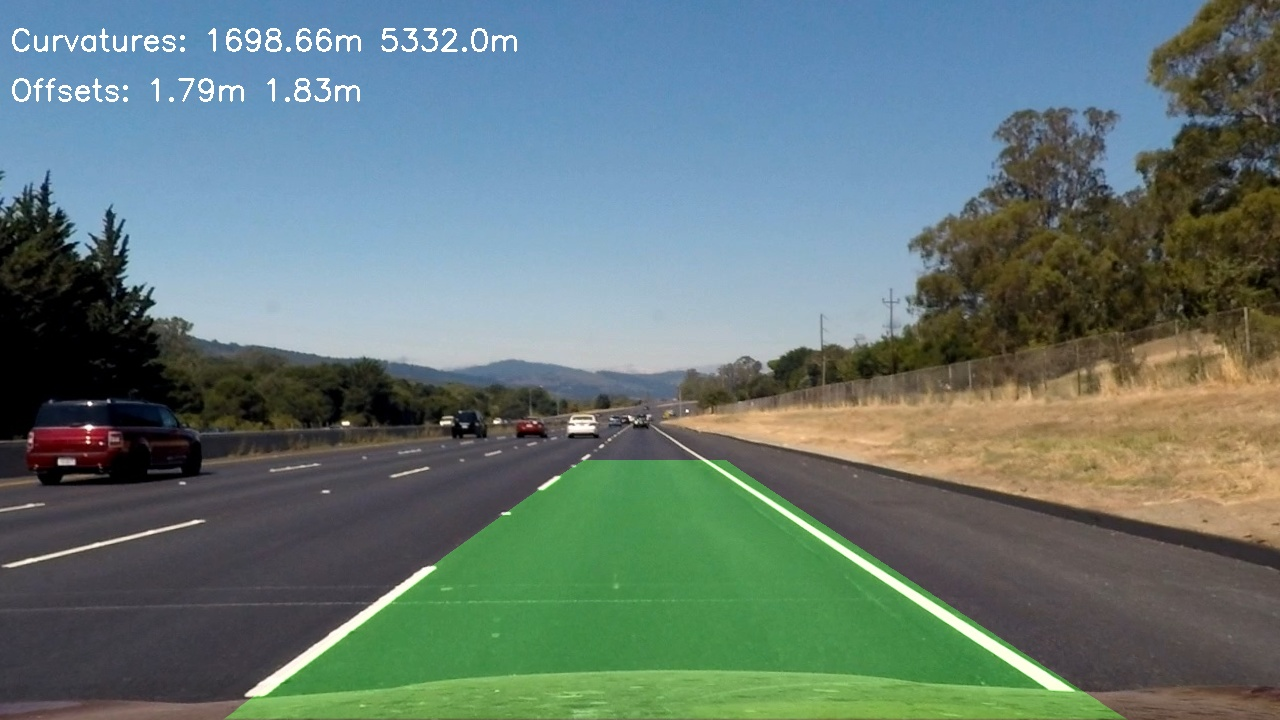
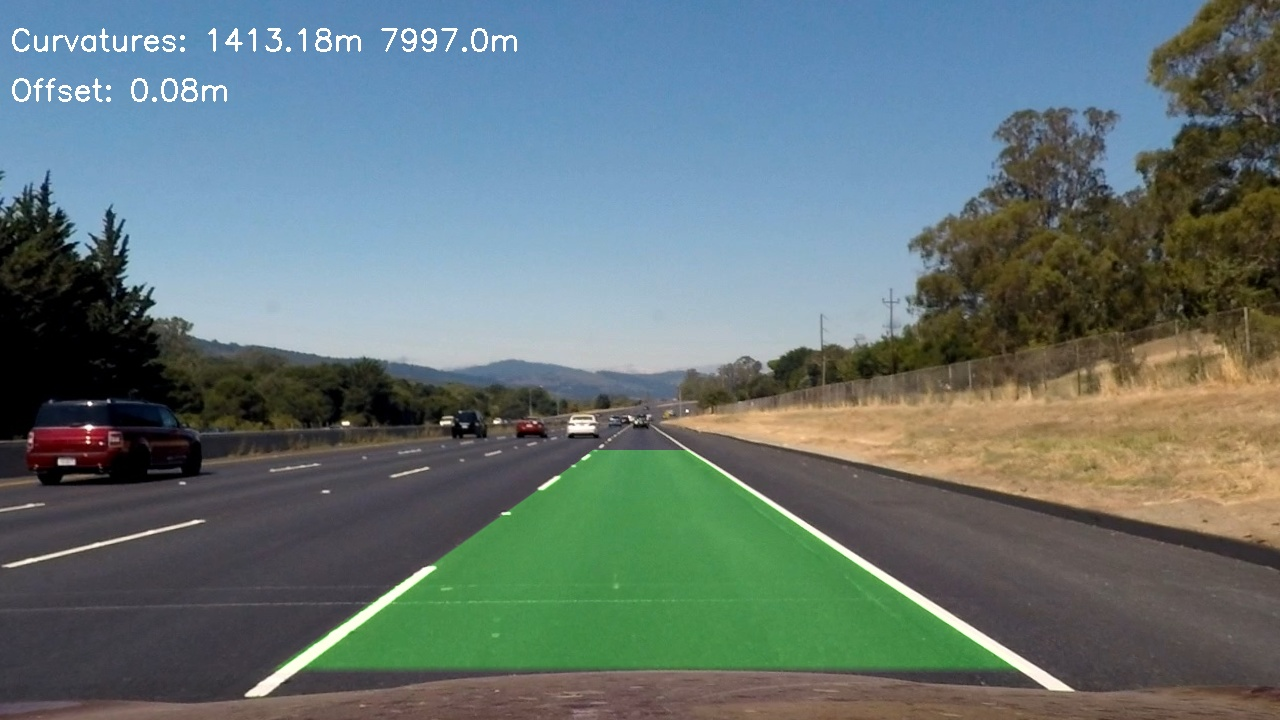
After review fixes

diff --git a/Finding Lane Lines/advanced/detector/detector.py b/Finding Lane Lines/advanced/detector/detector.py
@@ -15,13 +15,15 @@ class Detector(object):
         self.frame_w = camera.frame_w
         self.frame_h = camera.frame_h
 
-        self.lane = Lane(buffer_size=10, debug=debug)
+        self.roi_w = self.frame_w
+        self.roi_h = 223
+        self.lane = Lane(self.roi_w, self.roi_h, buffer_size=10, debug=debug)
 
         self.debug = debug
         self.debug_output_dir = debug_output_dir
 
     def cleanup(self):
-        pass
+        self.lane = Lane(self.frame_w, self.frame_h, buffer_size=10, debug=self.debug)
 
     def process_video(self, src, dst, subclip=None):
         if subclip is None:
@@ -47,9 +49,16 @@ class Detector(object):
         if self.debug:
             self._show_img(undistorted_frame, 'undistorted_frame', cmap=None)
 
+        # get roi
+        hood_pos_y = self.frame_h - 47  # 47 is a hood height
+        roi_start_y = hood_pos_y - self.roi_h
+        roi = undistorted_frame[roi_start_y:hood_pos_y, :, :]
+        if self.debug:
+            self._show_img(roi, 'roi', cmap=None)
+
         # get lane lines pixels
         start_time = time.time()
-        lane_pixels = self._get_lane_lines_pixels(undistorted_frame)
+        lane_pixels = self._get_lane_lines_pixels(roi)
         times['lane_pixels'] = time.time() - start_time
         if self.debug:
             self._show_img(lane_pixels, 'lane_pixels', 'gray')
@@ -59,7 +68,7 @@ class Detector(object):
         bird_eye_view = self.camera.perspective_transform(lane_pixels)
         times['bird_eye_view'] = time.time() - start_time
         if self.debug:
-            self._show_img(bird_eye_view, 'bird_eye_view', 'gray')
+            self._show_img(bird_eye_view, 'bird_eye_view', cmap='gray')
 
         # fit lines
         start_time = time.time()
@@ -73,7 +82,7 @@ class Detector(object):
 
         # calculate result lane lines properties
         start_time = time.time()
-        self.lane.update_lines(left_line, right_line, (self.frame_w//2, self.frame_h - 1))
+        self.lane.update_lines(left_line, right_line, (self.roi_w // 2, self.roi_h - 1))
         times['update_lines'] = time.time() - start_time
 
         # draw lane boundaries and lane info
@@ -91,9 +100,13 @@ class Detector(object):
         return frame_with_lane
 
     def _get_lane_lines_pixels(self, img):
+        # HSV = cv2.cvtColor(img, cv2.COLOR_BGR2HSV)
         HLS = cv2.cvtColor(img, cv2.COLOR_BGR2HLS)
         L = HLS[:, :, 1]
         S = HLS[:, :, 2]
+
+        # perform contrast/lightning correction
+        # @link https://docs.opencv.org/master/d5/daf/tutorial_py_histogram_equalization.html
 
         # gradient threshold
         kernel = 9
@@ -158,7 +171,7 @@ class Detector(object):
         binary_output[(direction >= threshold[0]) & (direction <= threshold[1])] = 1
         return binary_output
 
-    def _fit_lines(self, img, left_start_x, right_start_x, windows=6, margin=100, minpix=50):
+    def _fit_lines(self, img, left_start_x, right_start_x, windows=6, margin=20, minpix=10):
         if self.debug:
             out_img = np.dstack((img, img, img))
 
@@ -172,10 +185,11 @@ class Detector(object):
         left_lane_inds = []
         right_lane_inds = []
 
-        window_height = self.frame_h // windows
+        h, w = img.shape
+        window_height = h // windows
         for window in range(windows):
-            win_y_low = self.frame_h - (window + 1) * window_height
-            win_y_high = self.frame_h - window * window_height
+            win_y_low = h - (window + 1) * window_height
+            win_y_high = h - window * window_height
             win_x_left_low = left_x_current - margin
             win_x_left_high = left_x_current + margin
             win_x_right_low = right_x_current - margin
@@ -221,22 +235,18 @@ class Detector(object):
         right_y = nonzero_y[right_lane_inds]
         right_fit = np.polyfit(right_y, right_x, 2)
 
-        y_fit = np.linspace(0, self.frame_h - 1, self.frame_h)
+        y_fit = np.linspace(0, h - 1, h, dtype=np.float32)
         left_line = LaneLine()
         left_line.x_start = left_start_x
         left_line.fit = left_fit
         left_line.x_fit = left_fit[0] * y_fit ** 2 + left_fit[1] * y_fit + left_fit[2]
         left_line.y_fit = y_fit
-        left_line.detected_x = left_x
-        left_line.detected_y = left_y
 
         right_line = LaneLine()
         right_line.x_start = right_start_x
         right_line.fit = right_fit
         right_line.x_fit = right_fit[0] * y_fit ** 2 + right_fit[1] * y_fit + right_fit[2]
         right_line.y_fit = y_fit
-        right_line.detected_x = right_x
-        right_line.detected_y = right_y
 
         if self.debug:
             out_img[left_y, left_x] = [255, 0, 0]
@@ -250,16 +260,17 @@ class Detector(object):
         return left_line, right_line
 
     def _get_lines_start_positions(self, img):
-        histogram = np.sum(img[self.frame_h // 2:, :], axis=0)
+        histogram = np.sum(img, axis=0)
         if self.debug:
             plt.plot(histogram)
             plt.title('Lane pixels hist')
             plt.show()
 
-        midpoint = self.frame_w // 2
-        left_x = np.argmax(histogram[:midpoint])
+        margin = 100
+        midpoint = img.shape[1] // 2
+        left_x = (midpoint - margin) + np.argmax(histogram[(midpoint - margin):midpoint])
         left_w = histogram[left_x]
-        right_x = midpoint + np.argmax(histogram[midpoint:])
+        right_x = midpoint + np.argmax(histogram[midpoint:(midpoint + margin)])
         right_w = histogram[right_x]
 
         return left_x, left_w, right_x, right_w
@@ -270,16 +281,17 @@ class Detector(object):
         right_line = self.lane.get_best_right_line()
 
         # draw lane boundaries
-        warp_zero = np.zeros_like(warped).astype(np.uint8)
-        color_warp = np.dstack((warp_zero, warp_zero, warp_zero))
+        color_warp = np.zeros_like(warped).astype(np.uint8)
+        color_warp = np.dstack([color_warp, color_warp, color_warp])
 
         pts_left = np.array([np.transpose(np.vstack([left_line.x_fit, left_line.y_fit]))])
         pts_right = np.array([np.flipud(np.transpose(np.vstack([right_line.x_fit, right_line.y_fit])))])
         pts = np.hstack((pts_left, pts_right))
         cv2.fillPoly(color_warp, np.int_([pts]), (0, 255, 0))
-
-        warped_back = self.camera.perspective_transform_back(color_warp)
-        img_with_lane = cv2.addWeighted(dst_img, 1, warped_back, 0.3, 0)
+        roi_warped_back = self.camera.perspective_transform_back(color_warp)
+        full_size_img = np.zeros_like(dst_img).astype(np.uint8)
+        full_size_img[450:(450 + self.roi_h), :, :] = roi_warped_back
+        img_with_lane = cv2.addWeighted(dst_img, 1, full_size_img, 0.3, 0)
 
         # display lines info
         cv2.putText(
@@ -291,9 +303,15 @@ class Detector(object):
             (255, 255, 255),
             2
         )
+
+        y = self.roi_h - 1
+        left_x = left_line.x_fit[y]
+        right_x = right_line.x_fit[y]
+        lane_center = left_x + (right_x - left_x) / 2
+        offset = (self.roi_w / 2 - lane_center) * self.lane.xm_per_px
         cv2.putText(
             img_with_lane,
-            'Offsets: {}m {}m'.format(np.round(left_line.offset, 2), np.round(right_line.offset, 2)),
+            'Offset: {}m'.format(np.round(offset, 2)),
             (10, 100),
             cv2.FONT_HERSHEY_SIMPLEX,
             1,

diff --git a/Finding Lane Lines/advanced/detector/lane.py b/Finding Lane Lines/advanced/detector/lane.py
@@ -16,23 +16,21 @@ class Lane(object):
     curvature_min = 300
     curvature_max = 10000
 
-    xm_per_px = 1
-    ym_per_px = 1
-
-    def __init__(self, buffer_size=30, debug=False):
+    def __init__(self, roi_w, roi_h, buffer_size=30, debug=False):
+        self.roi_w = roi_w
+        self.roi_h = roi_h
         self.buffer_size = buffer_size
         self.debug = debug
 
+        self.xm_per_px = 3.675 / 85  # Lane width (12 ft in m) is ~85 px on image
+        self.ym_per_px = 3.048 / 24  # Dashed line length (10 ft in m) is ~24 px on image
+
     def update_lines(self, left_line, right_line, ego_pos):
-        x_start_diff = right_line.x_start - left_line.x_start
-        self.xm_per_px = 3.7 / x_start_diff
-        self.ym_per_px = 30 / np.max(left_line.detected_y)
+        # x_start_diff = right_line.x_start - left_line.x_start
 
         # calculate curvatures and offsets
         left_line.curvature = self._get_line_curvature(left_line)
         right_line.curvature = self._get_line_curvature(right_line)
-        left_line.offset = self._get_line_offset(left_line, ego_pos)
-        right_line.offset = self._get_line_offset(right_line, ego_pos)
 
         # check lines
         left_line.is_detected = self.is_line_detected(left_line, self.left_lines)
@@ -68,10 +66,10 @@ class Lane(object):
             return False
 
         # check curvature
-        if line.curvature < self.curvature_min or line.curvature > self.curvature_max:
-            if self.debug:
-                print('Left line invalid curvature:', line.curvature)
-            return False
+        # if line.curvature < self.curvature_min or line.curvature > self.curvature_max:
+        #     if self.debug:
+        #         print('Left line invalid curvature:', line.curvature)
+        #     return False
 
         # compare with previous detection
         current_time = time.time()
@@ -106,7 +104,6 @@ class Lane(object):
         x_fit = None
         y_fit = None
         curvatures = 0
-        offset = 0
         for k in lines:
             line = lines[k]
             if fit is not None:
@@ -121,7 +118,6 @@ class Lane(object):
 
             y_fit = line.y_fit
             curvatures += line.curvature
-            offset += line.offset
 
         count = len(lines.keys())
         average = LaneLine()
@@ -129,16 +125,21 @@ class Lane(object):
         average.x_fit = np.divide(x_fit, count)
         average.y_fit = y_fit
         average.curvature = curvatures / count
-        average.offset = offset / count
         return average
 
     def _get_line_curvature(self, line):
-        y = np.multiply(line.detected_y, self.ym_per_px)
-        x = np.multiply(line.detected_x, self.xm_per_px)
-        fit = np.polyfit(y, x, 2)
-        y_eval = np.max(line.detected_y) * self.ym_per_px
-        return np.power((1 + (2 * fit[0] * y_eval + fit[1]) ** 2), 1.5) / np.abs(2 * fit[0])
+        """
+            Gets line curvature in meters by M. Bourne formula
+            Scaled parabola: x = mx/(my ** 2) * a * (y**2) + (mx/my) * b * y + c
 
-    def _get_line_offset(self, line, ego_pos):
-        x, y = ego_pos
-        return np.abs(x - line.x_fit[y]) * self.xm_per_px
+        :param line:Line
+        :return:float
+        """
+
+        a, b, c = line.fit
+        mx = self.xm_per_px
+        my = self.ym_per_px
+        y = np.max(line.y_fit)
+        k = 2 * a * mx / my ** 2
+
+        return np.sqrt((1 + (k * y + (mx / my) * b) ** 2) ** 3) / np.abs(k)

diff --git a/Finding Lane Lines/advanced/detector/camera.py b/Finding Lane Lines/advanced/detector/camera.py
@@ -1,6 +1,7 @@
-import numpy as np
-import cv2
 import glob
+
+import cv2
+import numpy as np
 
 
 class Camera(object):
@@ -12,6 +13,7 @@ class Camera(object):
     roi = None
     perspective_matrix = None
     perspective_matrix_inv = None
+    perspective_dst_points = None
 
     def __init__(self, frame_w, frame_h):
         self.frame_w = frame_w
@@ -100,23 +102,42 @@ class Camera(object):
         return cv2.remap(img, map_x, map_y, cv2.INTER_LINEAR)
 
     def calculate_perspective_matrices(self, w, h):
-        src_points = np.float32([
-            [w / 2 - 63, h / 2 + 100],
-            [w / 6 - 10, h],
-            [w * 5 / 6 + 60, h],
-            [w / 2 + 68, h / 2 + 100]
-        ])
-        dst_points = np.float32([
-            [w / 4, 0],
-            [w / 4, h],
-            [w * 0.75, h],
-            [w * 0.75, 0]
-        ])
+        # src_points = np.float32([
+        #     [w / 2 - 55, h / 2 + 100],
+        #     [w / 6 - 10, h],
+        #     [w * 5 / 6 + 60, h],
+        #     [w / 2 + 55, h / 2 + 100]
+        # ])
+        # dst_points = np.float32([
+        #     [w / 4, 0],
+        #     [w / 4, h],
+        #     [w * 0.75, h],
+        #     [w * 0.75, 0]
+        # ])
+        # src_points = np.float32([
+        #     [581, 477],
+        #     [699, 477],
+        #     [896, 675],
+        #     [384, 675]
+        # ])
+        # dst_points = np.float32([
+        #     [384, 0],
+        #     [896, 0],
+        #     [896, 720],
+        #     [384, 720]
+        # ])
+
+        src_points = np.float32([[0, 223], [1207, 223], [0, 0], [1280, 0]])
+        dst_points = np.float32([[561, 223], [703, 223], [0, 0], [1280, 0]])
+
         self.perspective_matrix = cv2.getPerspectiveTransform(src_points, dst_points)
         self.perspective_matrix_inv = cv2.getPerspectiveTransform(dst_points, src_points)
+        self.perspective_dst_points = dst_points
 
     def perspective_transform(self, img):
-        return cv2.warpPerspective(img, self.perspective_matrix, (self.frame_w, self.frame_h))
+        shape = img.shape
+        return cv2.warpPerspective(img, self.perspective_matrix, (shape[1], shape[0]))
 
     def perspective_transform_back(self, img):
-        return cv2.warpPerspective(img, self.perspective_matrix_inv, (self.frame_w, self.frame_h))
+        shape = img.shape
+        return cv2.warpPerspective(img, self.perspective_matrix_inv, (shape[1], shape[0]))

diff --git a/Finding Lane Lines/advanced/detector/line.py b/Finding Lane Lines/advanced/detector/line.py
@@ -1,6 +1,3 @@
-import numpy as np
-
-
 class LaneLine(object):
     is_detected = False
     x_start = None
@@ -9,8 +6,4 @@ class LaneLine(object):
     x_fit = []
     y_fit = []
 
-    detected_x = []
-    detected_y = []
-
     curvature = None
-    offset = None
